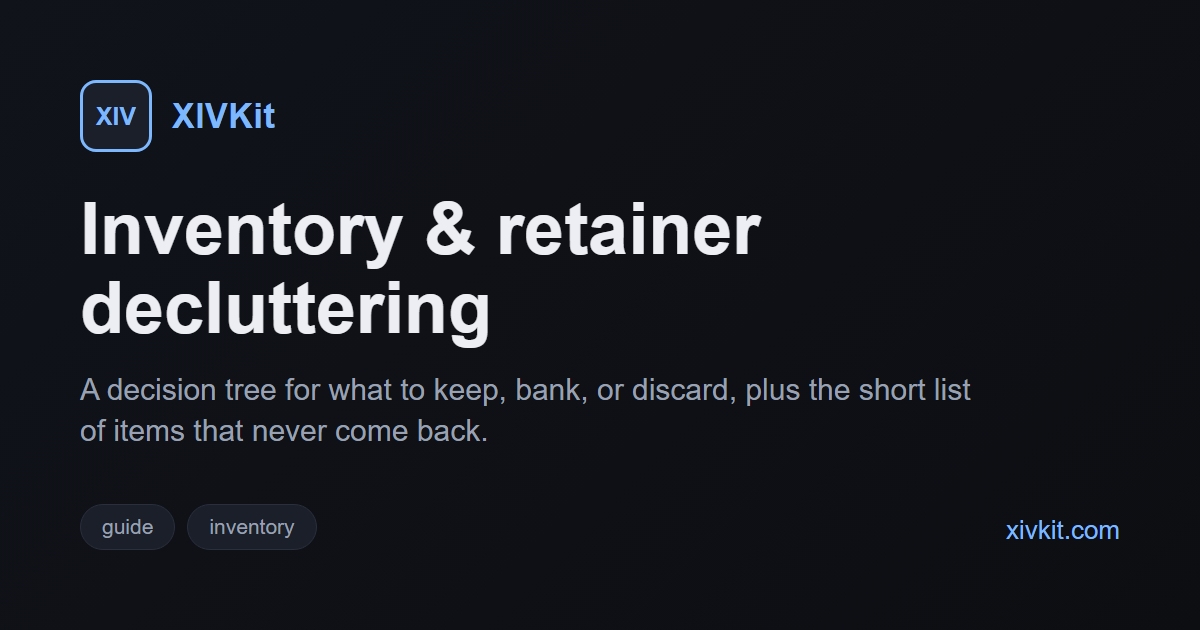
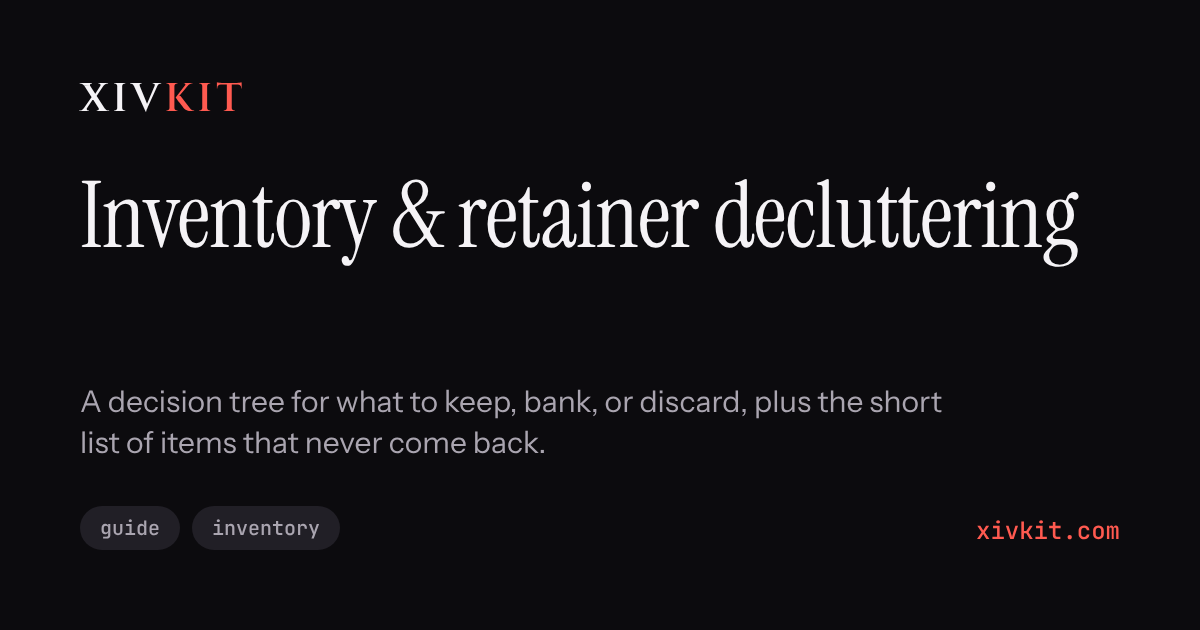
Brand the inventory decluttering guide
Split brand.css into shared, directory and guide layers, add the wordmark and
Noir/Silk theme to the inventory guide, and regenerate its OG card.

diff --git a/inventory-decluttering.html b/inventory-decluttering.html
@@ -16,7 +16,8 @@
 <meta name="description" content="What to actually keep, bank, or discard in FFXIV: a quick decision tree, rules of thumb, Armoire and Glamour Dresser tips, desynthesis and Doman Enclave donations, and the short list of items that never come back once discarded.">
 <link rel="canonical" href="https://xivkit.com/inventory-decluttering.html">
 <link rel="icon" type="image/svg+xml" href="favicon.svg">
-<meta name="theme-color" content="#12151c">
+<meta name="theme-color" content="#0c0b0e" media="(prefers-color-scheme: dark)">
+<meta name="theme-color" content="#f7f5f8" media="(prefers-color-scheme: light)">
 
 <meta property="og:type" content="article">
 <meta property="og:site_name" content="XIVKit">
@@ -38,7 +39,7 @@
 *{box-sizing:border-box}
 html{scroll-behavior:smooth}
 body{margin:0;background:linear-gradient(180deg,var(--bg) 0%,var(--bg2) 100%) fixed;color:var(--text);font-family:-apple-system,BlinkMacSystemFont,"Segoe UI",Roboto,Helvetica,Arial,sans-serif;line-height:1.5;font-size:15px}
-a{color:var(--accent);text-underline-offset:3px}a:hover{color:#a9d0ff}
+a{color:var(--accent);text-underline-offset:3px}a:hover{color:var(--text)}
 button{font:inherit;color:inherit;cursor:pointer}
 :focus-visible{outline:2px solid var(--accent);outline-offset:2px}
 p{margin:0}
@@ -58,7 +59,7 @@ h1{font-size:clamp(1.8rem,3.4vw,2.5rem);line-height:1.1;margin:0;letter-spacing:
 .rail{position:sticky;top:20px;display:flex;flex-direction:column;gap:2px}
 .rail-title{font-size:.7rem;text-transform:uppercase;letter-spacing:.08em;color:var(--muted);margin:0 0 8px 10px}
 .rail a{display:flex;align-items:center;gap:10px;padding:7px 10px;border-radius:8px;color:var(--muted);text-decoration:none;font-size:.85rem;border:1px solid transparent}
-.rail a:hover{color:var(--text);background:rgba(255,255,255,.03)}
+.rail a:hover{color:var(--text);background:color-mix(in srgb,var(--text) 3%,transparent)}
 .rail a.on{color:var(--text);background:var(--card);border-color:var(--border)}
 .rail a img,.rail a .rail-dot{width:22px;height:22px;flex:none}
 .rail a .rail-dot{display:grid;place-items:center;font-size:.7rem;font-weight:700;color:var(--accent);border:1px solid var(--border);border-radius:50%}
@@ -97,8 +98,8 @@ h3{font-size:1rem;margin:0}
 .tri-hint{color:var(--muted);font-size:.9rem;margin-top:6px}
 .tri-btns{display:flex;gap:10px;margin-top:auto}
 .btn{display:inline-flex;align-items:center;gap:8px;border-radius:8px;padding:10px 18px;border:1px solid var(--border);background:transparent;font-weight:600;font-size:.92rem;text-decoration:none;color:var(--text)}
-.btn:hover{background:rgba(255,255,255,.04);color:var(--text)}
-.btn-yes{border-color:var(--accent);color:var(--accent)}.btn-yes:hover{background:rgba(125,184,255,.1);color:var(--accent)}
+.btn:hover{background:color-mix(in srgb,var(--text) 4%,transparent);color:var(--text)}
+.btn-yes{border-color:var(--accent);color:var(--accent)}.btn-yes:hover{background:color-mix(in srgb,var(--accent) 10%,transparent);color:var(--accent)}
 .btn kbd{font-family:var(--mono);font-size:.7rem;color:var(--muted);border:1px solid var(--border);border-radius:4px;padding:0 5px}
 .btn-sm{padding:6px 12px;font-size:.82rem}
 .verdict{border-radius:12px;padding:18px 20px;border:1px solid var(--vc);background:color-mix(in srgb,var(--vc) 9%,transparent);display:grid;gap:6px}
@@ -108,7 +109,7 @@ h3{font-size:1rem;margin:0}
 .tri-side{background:var(--card2);border-left:1px solid var(--border);padding:22px 24px;display:flex;flex-direction:column;gap:4px}
 .tri-side h4{margin:0 0 8px;font-size:.7rem;text-transform:uppercase;letter-spacing:.08em;color:var(--muted)}
 .trail{list-style:none;margin:0;padding:0;display:flex;flex-direction:column;gap:2px}
-.trail li{display:grid;grid-template-columns:22px minmax(0,1fr) auto;gap:8px;align-items:start;padding:7px 0;font-size:.84rem;color:var(--muted);border-bottom:1px solid rgba(255,255,255,.04)}
+.trail li{display:grid;grid-template-columns:22px minmax(0,1fr) auto;gap:8px;align-items:start;padding:7px 0;font-size:.84rem;color:var(--muted);border-bottom:1px solid color-mix(in srgb,var(--text) 4%,transparent)}
 .trail li b{font-variant-numeric:tabular-nums;color:var(--muted);font-weight:600}
 .trail li.cur{color:var(--text)}.trail li.cur b{color:var(--accent)}
 .trail li.future{opacity:.45}
@@ -151,8 +152,8 @@ h3{font-size:1rem;margin:0}
 .gil-seg{display:grid;grid-template-columns:repeat(4,minmax(0,1fr));border-bottom:1px solid var(--border)}
 .gil-seg button{background:transparent;border:0;border-right:1px solid var(--border);padding:12px 8px;font-weight:600;font-size:.9rem;color:var(--muted);font-variant-numeric:tabular-nums}
 .gil-seg button:last-child{border-right:0}
-.gil-seg button:hover{color:var(--text);background:rgba(255,255,255,.02)}
-.gil-seg button[aria-pressed="true"]{color:var(--opine);box-shadow:inset 0 -2px 0 var(--opine);background:rgba(201,155,240,.06)}
+.gil-seg button:hover{color:var(--text);background:color-mix(in srgb,var(--text) 2%,transparent)}
+.gil-seg button[aria-pressed="true"]{color:var(--opine);box-shadow:inset 0 -2px 0 var(--opine);background:color-mix(in srgb,var(--opine) 6%,transparent)}
 .gil-body{padding:18px 20px;display:grid;gap:4px;min-height:96px}
 .gil-body h3{font-size:1.1rem}.gil-body p{color:var(--muted);max-width:640px}
 /* never */
@@ -171,7 +172,7 @@ h3{font-size:1rem;margin:0}
 .chip img{width:18px;height:18px}
 .chip.all{padding-left:11px}
 .chip:hover{color:var(--text)}
-.chip[aria-pressed="true"]{color:var(--text);border-color:var(--accent);background:rgba(125,184,255,.08)}
+.chip[aria-pressed="true"]{color:var(--text);border-color:var(--accent);background:color-mix(in srgb,var(--accent) 8%,transparent)}
 .faq{display:flex;flex-direction:column;gap:8px}
 .qa{background:var(--card);border:1px solid var(--border);border-radius:10px}
 .qa summary{list-style:none;cursor:pointer;display:grid;grid-template-columns:28px minmax(0,1fr) 20px;gap:12px;align-items:start;padding:12px 14px}
@@ -183,8 +184,8 @@ h3{font-size:1rem;margin:0}
 .qa[open] .pm{transform:rotate(45deg)}
 .qa[open] .tl{color:var(--good)}
 .qa .body{padding:0 14px 16px 54px;display:grid;gap:10px;font-size:.92rem;text-wrap:pretty}
-.qa:hover{border-color:#394054}
-mark{background:rgba(125,184,255,.25);color:inherit;border-radius:2px}
+.qa:hover{border-color:var(--border-strong)}
+mark{background:color-mix(in srgb,var(--accent) 25%,transparent);color:inherit;border-radius:2px}
 .empty{color:var(--muted);padding:20px;text-align:center;border:1px dashed var(--border);border-radius:10px}
 /* donts */
 .donts{display:grid;grid-template-columns:repeat(auto-fill,minmax(260px,1fr));gap:10px}
@@ -197,7 +198,7 @@ mark{background:rgba(125,184,255,.25);color:inherit;border-radius:2px}
 .tl-list{display:flex;flex-direction:column;border:1px solid var(--border);border-radius:12px;overflow:hidden}
 .tl-list a{display:grid;gap:2px;padding:12px 16px;text-decoration:none;color:var(--text);border-bottom:1px solid var(--border);background:var(--card)}
 .tl-list a:last-child{border-bottom:0}
-.tl-list a:hover{background:#20253214}
+.tl-list a:hover{background:color-mix(in srgb,var(--text) 6%,transparent)}
 .tl-list a:hover b{color:var(--accent)}
 .tl-list b{font-size:.92rem}.tl-list span{font-size:.82rem;color:var(--muted)}
 .src-list{margin:0;padding-left:22px;display:grid;gap:6px;font-size:.88rem;color:var(--muted);columns:2;column-gap:32px;display:block}
@@ -222,10 +223,15 @@ footer .legal{font-size:.75rem;opacity:.7}
 .tiers{grid-template-columns:repeat(2,minmax(0,1fr))}.doman-body{grid-template-columns:minmax(0,1fr)}
 }
 </style>
+<link rel="preconnect" href="https://fonts.googleapis.com">
+<link rel="preconnect" href="https://fonts.gstatic.com" crossorigin>
+<link rel="stylesheet" href="https://fonts.googleapis.com/css2?family=Cinzel:wght@600&family=Instrument+Sans:wght@400..700&family=Instrument+Serif&family=JetBrains+Mono:wght@500;600&display=swap">
+<link rel="stylesheet" href="brand.css">
+<link rel="stylesheet" href="brand-guide.css">
 </head>
 <body>
 <div class="wrap">
-<nav class="topnav"><a href="./" data-i18n="shared.nav.tools">Tools I use</a><a href="watchlist.html" data-i18n="shared.nav.watchlist">Watchlist</a><a href="plugins.html" data-i18n="shared.nav.plugins">Plugins</a><a href="venues.html" data-i18n="shared.nav.venues">Venues</a></nav>
+<nav class="topnav"><a class="wordmark" href="./" aria-label="XIVKit home">XIV<b>KIT</b></a><a href="./" data-i18n="shared.nav.tools">Tools I use</a><a href="watchlist.html" data-i18n="shared.nav.watchlist">Watchlist</a><a href="plugins.html" data-i18n="shared.nav.plugins">Plugins</a><a href="venues.html" data-i18n="shared.nav.venues">Venues</a></nav>
 <div id="lang-bar"></div>
 <header class="hero">
 <span class="kicker">Guide</span>

diff --git a/brand.css b/brand.css
@@ -1,5 +1,5 @@
 /* XIVKit brand layer: Noir (dark, default) and Silk (light).
-   Loaded after each page's inline <style>, so it overrides the old palette.
+   Shared by every page. Loaded after each page's inline <style>, so it overrides the old palette.
    Tokens mirror the XIVKit design system; fonts load from Google Fonts in each page head. */
 :root {
   color-scheme: dark light;
@@ -57,77 +57,5 @@ body {
 h1 {
   font-family: var(--font-display);
   font-weight: 400;
-  font-size: 2.4rem;
-  line-height: 1.1;
   letter-spacing: -0.01em;
-}
-header p { max-width: 60ch; }
-
-/* Section labels: mono eyebrow with a hairline running out */
-h2 {
-  display: flex;
-  align-items: center;
-  gap: 12px;
-  margin: 40px 0 14px;
-  padding: 0;
-  border: 0;
-  font: 600 12px/16px var(--font-mono);
-  letter-spacing: 1.2px;
-  text-transform: uppercase;
-  color: var(--accent);
-}
-h2::after { content: ""; flex: 1; height: 1px; background: var(--border); }
-.featured-guides h2 { color: var(--accent); }
-
-/* Sidebar nav: current page gets a bold ink rule on its left edge */
-.page-nav { gap: 12px; }
-.page-nav a {
-  padding: 0 0 0 12px;
-  border-bottom: 0;
-  border-left: 2px solid transparent;
-  font-size: 0.9rem;
-  line-height: 1.3;
-}
-.page-nav a.current { color: var(--text); font-weight: 600; border-left-color: var(--text); }
-.page-nav a:hover { color: var(--accent); }
-
-/* Inputs and pills */
-#search { border-color: var(--border-strong); border-radius: 10px; font-family: var(--font-sans); }
-#search::placeholder { color: var(--muted); }
-#search:focus { outline: 2px solid var(--accent); outline-offset: 2px; border-color: var(--accent); }
-.tag-pill, li .tags button {
-  font-family: var(--font-mono);
-  font-weight: 500;
-  background: var(--raised);
-  border-color: transparent;
-}
-li .tags button { font-size: 0.72rem; padding: 3px 9px; }
-.tag-pill:hover, .tag-pill.active, li .tags button:hover { color: var(--accent); border-color: var(--accent); }
-.tag-pill.active { background: var(--accent-solid); border-color: var(--accent-solid); color: var(--on-accent); font-weight: 600; }
-
-/* Cards */
-li { background: var(--card); border-color: var(--border); }
-li:hover { border-color: var(--accent); box-shadow: var(--shadow-lift); }
-li .link-body { font-weight: 600; }
-li .desc { font-weight: 400; }
-li a:hover { color: var(--text); }
-li a:hover .link-body { color: var(--accent); }
-li .favicon { background: var(--raised); border-radius: 6px; }
-.featured-guides li { border-radius: 16px; }
-.featured-guides li .link-body { font-family: var(--font-display); font-weight: 400; font-size: 1.45rem; line-height: 1.15; }
-.featured-guides li .desc { font-family: var(--font-sans); font-size: 0.85rem; line-height: 1.4; }
-
-footer a, #empty-state button { color: var(--accent); }
-a { text-underline-offset: 3px; }
-
-@media (prefers-reduced-motion: reduce) {
-  li, li:hover { transition: none; transform: none; }
-}
-
-/* Inline links and notes */
-p a, .note a, .credit-banner a { color: var(--accent); }
-.note, .credit-banner {
-  background: var(--card);
-  border: 1px solid var(--border);
-  border-radius: 10px;
 }

diff --git a/brand-directory.css b/brand-directory.css
@@ -1,0 +1,72 @@
+/* Directory pages only (home, plugins, watchlist, venues, jump puzzle). */
+h1 { font-size: 2.4rem; line-height: 1.1; }
+header p { max-width: 60ch; }
+
+/* Section labels: mono eyebrow with a hairline running out */
+h2 {
+  display: flex;
+  align-items: center;
+  gap: 12px;
+  margin: 40px 0 14px;
+  padding: 0;
+  border: 0;
+  font: 600 12px/16px var(--font-mono);
+  letter-spacing: 1.2px;
+  text-transform: uppercase;
+  color: var(--accent);
+}
+h2::after { content: ""; flex: 1; height: 1px; background: var(--border); }
+.featured-guides h2 { color: var(--accent); }
+
+/* Sidebar nav: current page gets a bold ink rule on its left edge */
+.page-nav { gap: 12px; }
+.page-nav a {
+  padding: 0 0 0 12px;
+  border-bottom: 0;
+  border-left: 2px solid transparent;
+  font-size: 0.9rem;
+  line-height: 1.3;
+}
+.page-nav a.current { color: var(--text); font-weight: 600; border-left-color: var(--text); }
+.page-nav a:hover { color: var(--accent); }
+
+/* Inputs and pills */
+#search { border-color: var(--border-strong); border-radius: 10px; font-family: var(--font-sans); }
+#search::placeholder { color: var(--muted); }
+#search:focus { outline: 2px solid var(--accent); outline-offset: 2px; border-color: var(--accent); }
+.tag-pill, li .tags button {
+  font-family: var(--font-mono);
+  font-weight: 500;
+  background: var(--raised);
+  border-color: transparent;
+}
+li .tags button { font-size: 0.72rem; padding: 3px 9px; }
+.tag-pill:hover, .tag-pill.active, li .tags button:hover { color: var(--accent); border-color: var(--accent); }
+.tag-pill.active { background: var(--accent-solid); border-color: var(--accent-solid); color: var(--on-accent); font-weight: 600; }
+
+/* Cards */
+li { background: var(--card); border-color: var(--border); }
+li:hover { border-color: var(--accent); box-shadow: var(--shadow-lift); }
+li .link-body { font-weight: 600; }
+li .desc { font-weight: 400; }
+li a:hover { color: var(--text); }
+li a:hover .link-body { color: var(--accent); }
+li .favicon { background: var(--raised); border-radius: 6px; }
+.featured-guides li { border-radius: 16px; }
+.featured-guides li .link-body { font-family: var(--font-display); font-weight: 400; font-size: 1.45rem; line-height: 1.15; }
+.featured-guides li .desc { font-family: var(--font-sans); font-size: 0.85rem; line-height: 1.4; }
+
+footer a, #empty-state button { color: var(--accent); }
+a { text-underline-offset: 3px; }
+
+@media (prefers-reduced-motion: reduce) {
+  li, li:hover { transition: none; transform: none; }
+}
+
+/* Inline links and notes */
+p a, .note a, .credit-banner a { color: var(--accent); }
+.note, .credit-banner {
+  background: var(--card);
+  border: 1px solid var(--border);
+  border-radius: 10px;
+}

diff --git a/brand-guide.css b/brand-guide.css
@@ -1,0 +1,28 @@
+/* Guide pages that use the shared --bg/--card/--text variable names (inventory decluttering).
+   Loaded after brand.css. Semantic colours stay hued but are tuned per theme. */
+:root {
+  --bg2: var(--bg);
+  --card2: var(--card);
+  --warn: #f0a85a;
+  --opine: #c99bf0;
+  --good: #7ed6a5;
+  --cyan: #6fd1e8;
+  --amber: #e8bb62;
+}
+@media (prefers-color-scheme: light) {
+  :root {
+    --warn: #8a4f00;
+    --opine: #6b3fa0;
+    --good: #1d6b43;
+    --cyan: #0a6a80;
+    --amber: #7a5200;
+  }
+}
+body { background: var(--bg); }
+a:hover { color: var(--text); }
+.kicker { font-family: var(--font-mono); font-weight: 600; letter-spacing: 1.2px; }
+.topnav { align-items: center; }
+.topnav .wordmark { margin: 0 12px 0 0; font-size: 22px; color: var(--text); }
+.topnav .wordmark:hover { color: var(--text); }
+.rail a.on { border-color: var(--border-strong); }
+h2, .sec-head h2 { font-family: var(--font-display); font-weight: 400; font-size: 1.7rem; letter-spacing: -0.01em; }

diff --git a/index.html b/index.html
@@ -333,6 +333,7 @@
 <link rel="preconnect" href="https://fonts.gstatic.com" crossorigin>
 <link rel="stylesheet" href="https://fonts.googleapis.com/css2?family=Cinzel:wght@600&family=Instrument+Sans:wght@400..700&family=Instrument+Serif&family=JetBrains+Mono:wght@500;600&display=swap">
 <link rel="stylesheet" href="brand.css">
+<link rel="stylesheet" href="brand-directory.css">
 </head>
 <body>
 <main>

diff --git a/jump-puzzle-macros.html b/jump-puzzle-macros.html
@@ -281,6 +281,7 @@
 <link rel="preconnect" href="https://fonts.gstatic.com" crossorigin>
 <link rel="stylesheet" href="https://fonts.googleapis.com/css2?family=Cinzel:wght@600&family=Instrument+Sans:wght@400..700&family=Instrument+Serif&family=JetBrains+Mono:wght@500;600&display=swap">
 <link rel="stylesheet" href="brand.css">
+<link rel="stylesheet" href="brand-directory.css">
 </head>
 <body>
 <main>

diff --git a/plugins.html b/plugins.html
@@ -276,6 +276,7 @@
 <link rel="preconnect" href="https://fonts.gstatic.com" crossorigin>
 <link rel="stylesheet" href="https://fonts.googleapis.com/css2?family=Cinzel:wght@600&family=Instrument+Sans:wght@400..700&family=Instrument+Serif&family=JetBrains+Mono:wght@500;600&display=swap">
 <link rel="stylesheet" href="brand.css">
+<link rel="stylesheet" href="brand-directory.css">
 </head>
 <body>
 <main>

diff --git a/venues.html b/venues.html
@@ -303,6 +303,7 @@
 <link rel="preconnect" href="https://fonts.gstatic.com" crossorigin>
 <link rel="stylesheet" href="https://fonts.googleapis.com/css2?family=Cinzel:wght@600&family=Instrument+Sans:wght@400..700&family=Instrument+Serif&family=JetBrains+Mono:wght@500;600&display=swap">
 <link rel="stylesheet" href="brand.css">
+<link rel="stylesheet" href="brand-directory.css">
 </head>
 <body>
 <main>

diff --git a/watchlist.html b/watchlist.html
@@ -276,6 +276,7 @@
 <link rel="preconnect" href="https://fonts.gstatic.com" crossorigin>
 <link rel="stylesheet" href="https://fonts.googleapis.com/css2?family=Cinzel:wght@600&family=Instrument+Sans:wght@400..700&family=Instrument+Serif&family=JetBrains+Mono:wght@500;600&display=swap">
 <link rel="stylesheet" href="brand.css">
+<link rel="stylesheet" href="brand-directory.css">
 </head>
 <body>
 <main>

diff --git a/README.md b/README.md
@@ -124,12 +124,12 @@ branch = `main`, folder = `/ (root)`. Save, then the site will start working. Cu
 ## Look and feel
 
 The brand is a wordmark, `XIV` in ink and `KIT` in red, set in Cinzel, with two themes:
-Noir (dark, the default) and Silk (light, via `prefers-color-scheme`). The five directory
-pages (home, plugins, watchlist, venues, jump puzzle macros) load `brand.css` after their
-own inline styles, and that file holds the palette, fonts, section labels, cards, pills
-and wordmark. To change a colour or font for those pages, edit `brand.css`. The three
-long guides (hunt for astronomy, inventory decluttering, trade-in mounts) keep their own
-styling for now. Fonts come from Google Fonts: Cinzel, Instrument Serif, Instrument Sans
+Noir (dark, the default) and Silk (light, via `prefers-color-scheme`). `brand.css` holds the shared palette, fonts and wordmark and loads after each page's own
+inline styles. The five directory pages (home, plugins, watchlist, venues, jump puzzle
+macros) also load `brand-directory.css` (section labels, cards, pills, nav), and the
+inventory decluttering guide loads `brand-guide.css`. To change a colour or font, edit
+`brand.css`. The hunt for astronomy and trade-in mounts guides keep their own styling
+for now. Fonts come from Google Fonts: Cinzel, Instrument Serif, Instrument Sans
 and JetBrains Mono. `favicon.svg` is the XIV letters with a red rule, converted to
 outlines, so it needs no font.
 
